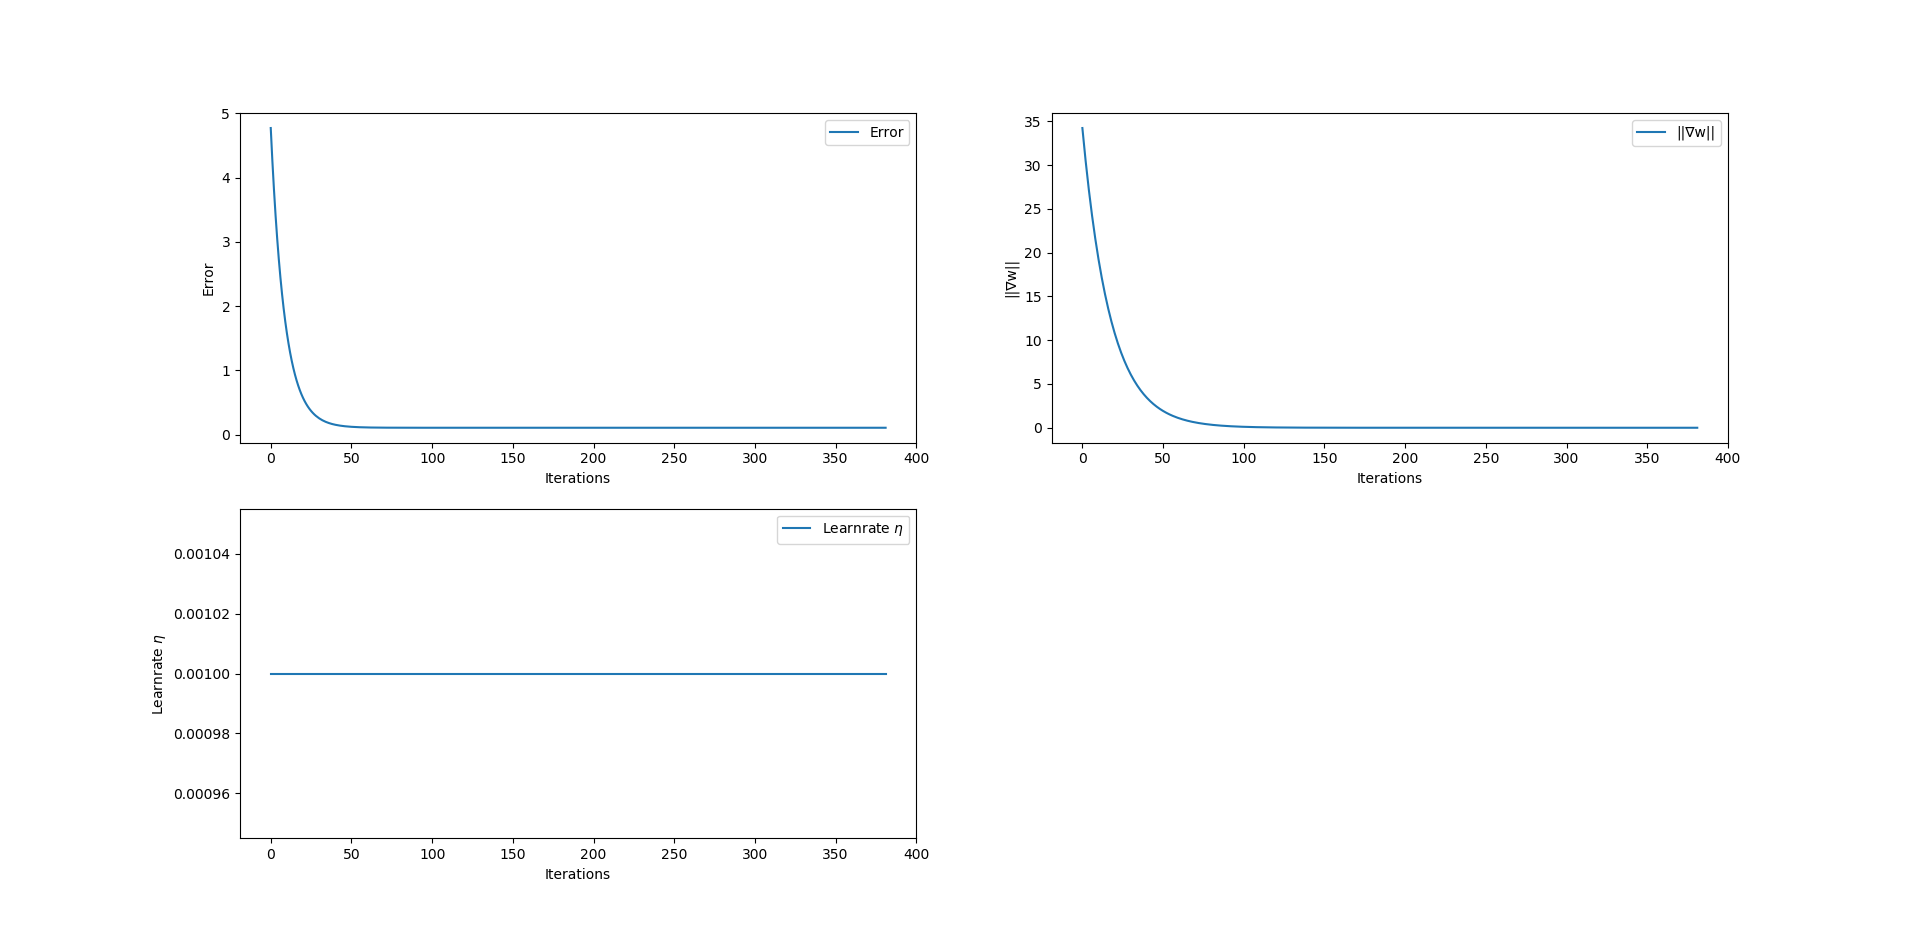
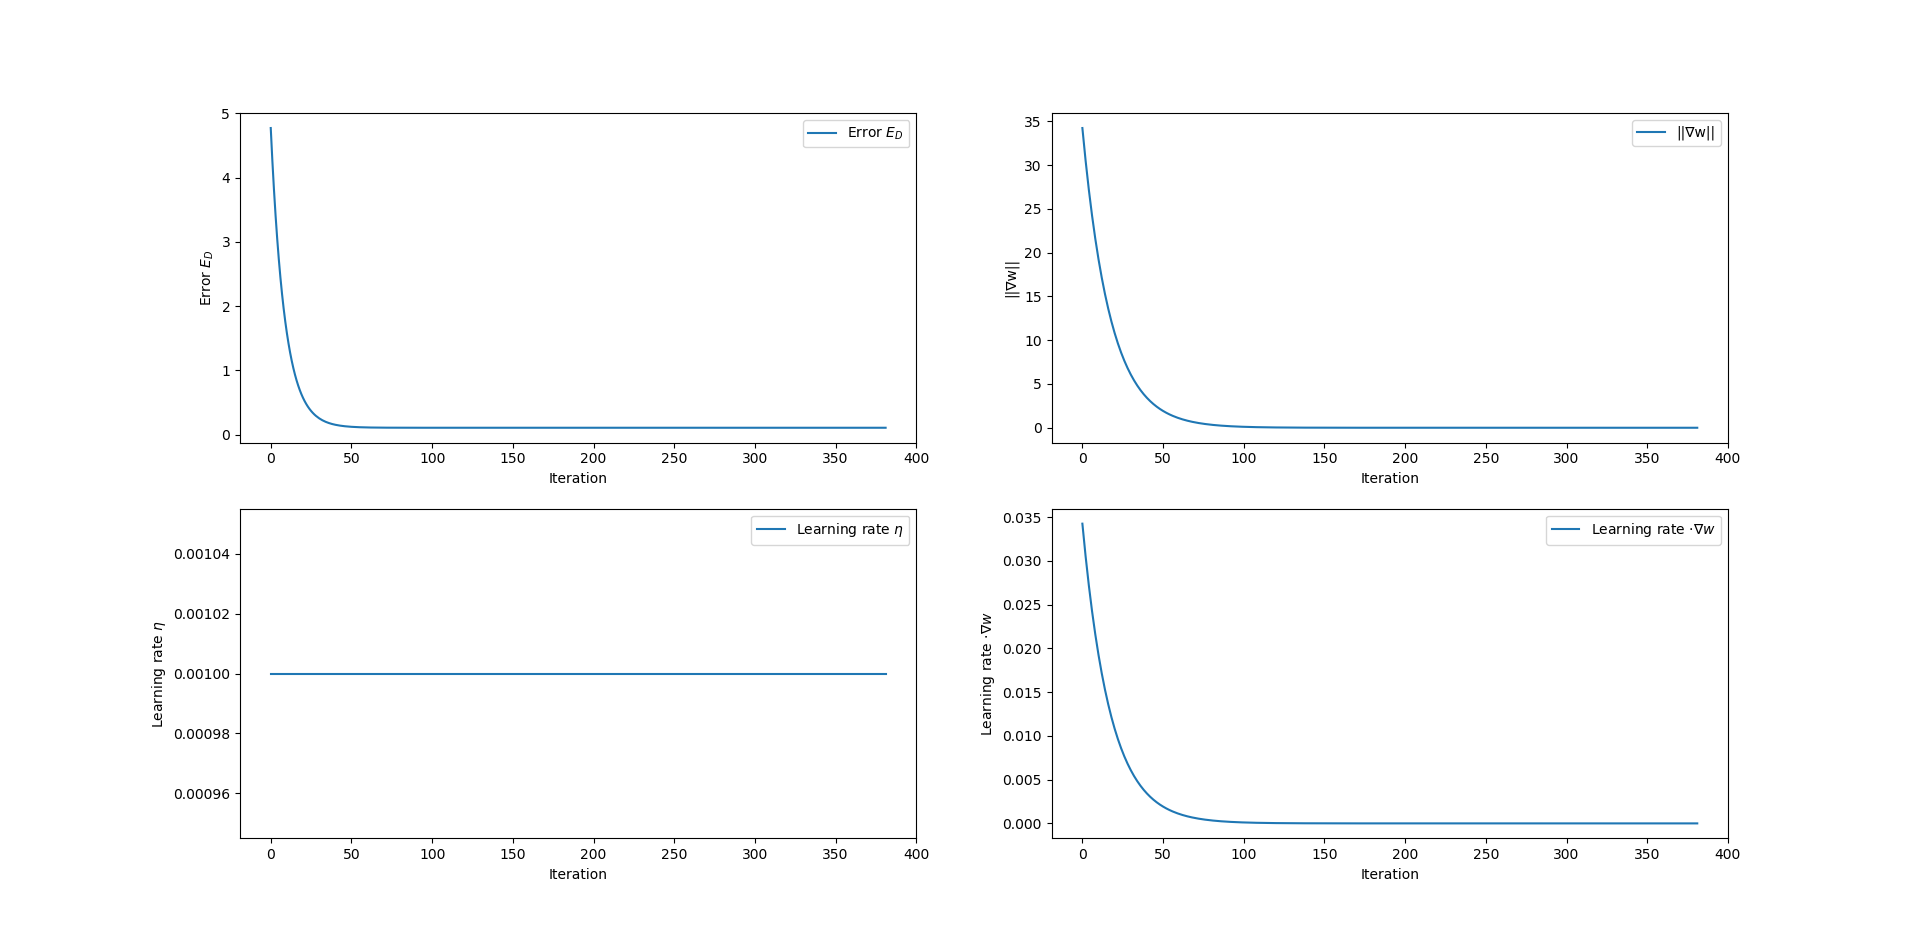
updated plots - added another example

diff --git a/plot.py b/plot.py
@@ -5,7 +5,7 @@ from math import ceil
 
 Data = namedtuple("Data", ["x", "y", "label"])
 
-names = [("error", "Error"), ("norm_gradient_w", "||∇w||"), ("learnrate", r"Learnrate $\eta$")]
+names = [("error", r"Error $E_D$"), ("norm_gradient_w", "Parameter Gradient ||∇w||"), ("learnrate", r"Learning Rate $\eta$")]
 vals = {}
 for (name, label) in names:
     with open(f"{name}.txt", "r") as f:
@@ -19,9 +19,18 @@ cols = 2
 rows = ceil(len(names) / 2)
 for (i, d) in enumerate(vals.values()):
     plt.subplot(rows, cols, i+1)
-    plt.plot(d.x, d.y, label=d.label)
-    plt.xlabel("Iterations")
+    plt.semilogy(d.x, d.y, label=d.label)
+    plt.xlabel("Iteration")
     plt.ylabel(d.label)
     plt.legend()
+
+plt.subplot(rows, cols, rows*cols)
+d1 = vals["learnrate"]
+d2 = vals["norm_gradient_w"]
+label = r"Learning rate $ \cdot ||\nabla w||$"
+plt.semilogy(d1.x, list(map(lambda x: x[0]*x[1], zip(d1.y, d2.y))), label=label)
+plt.xlabel("Iteration")
+plt.ylabel(label)
+plt.legend()
 
 plt.show()
